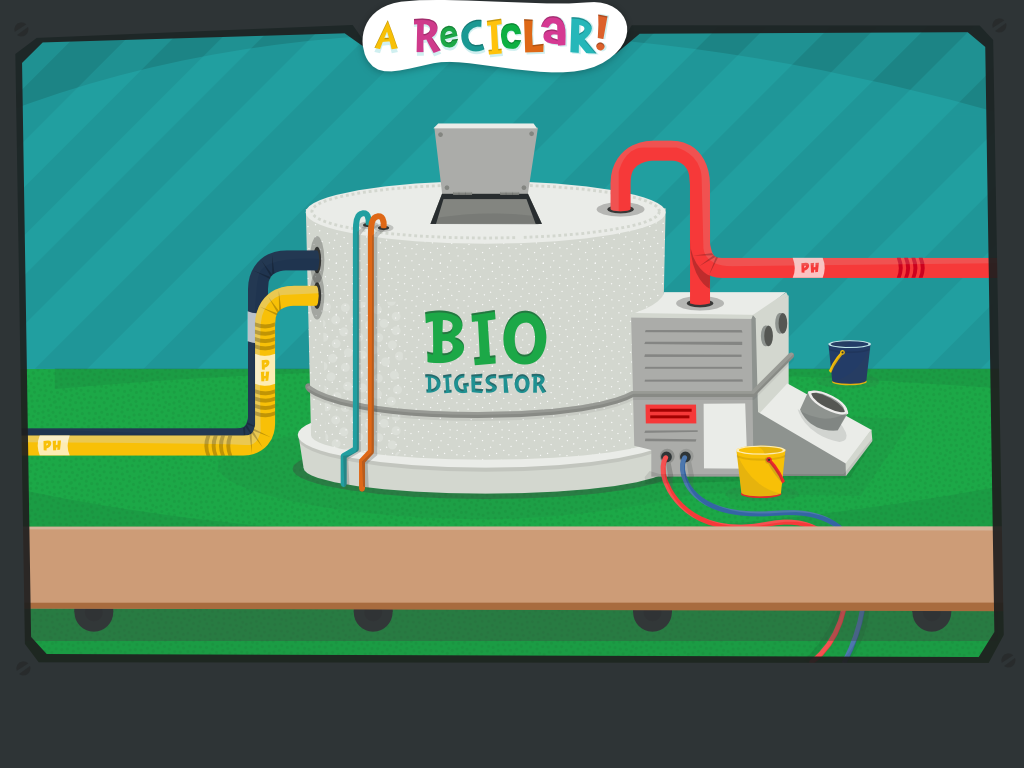
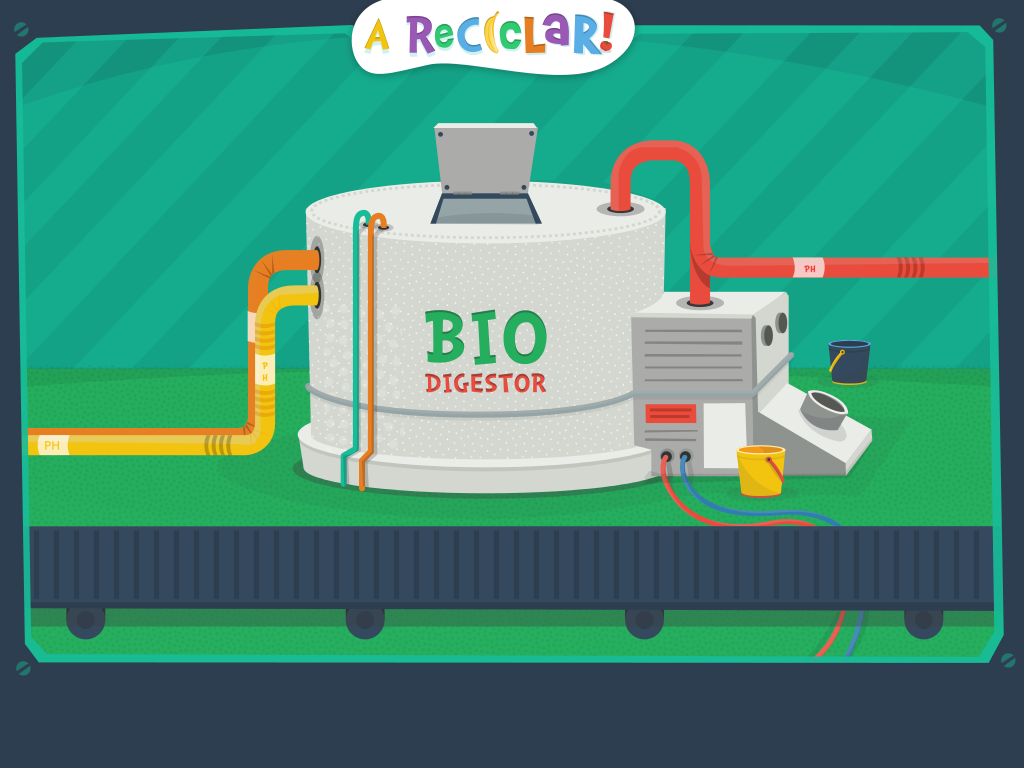
modificados los array para ubicar los elementos en los 4 escenarios. Ahora cada lugar tiene 12 posiciones. Agregados los escenarios que faltaban. Actualizadas gran parte de las partes de la interfaz a la nueva paleta de colores.

diff --git a/scripts/data/places.js b/scripts/data/places.js
@@ -2,30 +2,73 @@
 define( function()
 {
 	return [
-		{
-			code: 'park',
+		{	code: 'park',
 			elements: [
-				{ x: 780, y: 340, scale: .4 },
+				{ x: 780, y: 340, scale: .6 },
 				{ x: 145, y: 420, scale: .8 },
 				{ x: 300, y: 430, scale: .9 },
-				{ x: 745, y: 480, scale: 1 },
-				{ x: 110, y: 550, scale: 1.2 },
-				{ x: 445, y: 570, scale: 1.4 },
-				{ x: 840, y: 600, scale: 1.6  },
-			],
-		},
-		{
-			code: 'room',
+				{ x: 745, y: 480, scale: .9 },
+				{ x: 110, y: 550, scale: 1 },
+				{ x: 445, y: 570, scale: 1.1 },
+				{ x: 840, y: 600, scale: 1.2 },
+				{ x: 590, y: 459, scale: .8 },
+				{ x: 357, y: 347, scale: .6 },
+				{ x: 908, y: 338, scale: .6 },
+				{ x: 24, y: 339, scale: .6 },
+				{ x: 328, y: 558, scale: .7 },
+				],
+			},
+
+		{	code: 'room',
 			elements: [
-				{ x: 780, y: 340, scale: .4 },
-				{ x: 145, y: 420, scale: .8 },
-				{ x: 300, y: 430, scale: .9 },
-				{ x: 745, y: 480, scale: 1 },
-				{ x: 110, y: 550, scale: 1.2 },
-				{ x: 445, y: 570, scale: 1.4 },
-				{ x: 840, y: 600, scale: 1.6  },
-			],
-		},
+				{ x:87, y: 540, scale: .7 },
+				{ x:827, y: 522, scale: .6 },
+				{ x:504, y: 416, scale: .7 },
+				{ x:759, y: 353, scale: .7 },
+				{ x:653, y: 364, scale: .6 },
+				{ x:771, y: 245, scale: .6 },
+				{ x:410, y: 324, scale: .8 },
+				{ x:222, y: 84, scale: .7 },
+				{ x:210, y: 565, scale: .8 },
+				{ x:769, y: 140, scale: .6 },
+				{ x:475, y: 150, scale: .6 },
+				{ x:59, y: 167, scale: .6 },
+				],
+			},
+
+		{	code: 'kitchen',
+			elements: [
+				{ x:137, y: 98, scale: .8 },
+				{ x:45, y: 129, scale: .6 },
+				{ x:531, y: 548, scale: .7 },
+				{ x:881, y: 525, scale: .9 },
+				{ x:590, y: 224, scale: .8 },
+				{ x:354, y: 135, scale: .6 },
+				{ x:254, y: 539, scale: .8 },
+				{ x:798, y: 321, scale: .7 },
+				{ x:372, y: 265, scale: .6 },
+				{ x:294, y: 296, scale: .5 },
+				{ x:486, y: 228, scale: .6 },
+				{ x:653, y: 519, scale: 1 },
+				],
+			},
+
+		{	code: 'classroom',
+			elements: [
+				{ x:580, y: 362, scale: .6 },
+				{ x:534, y: 371, scale: .5 },
+				{ x:537, y: 90, scale: .7 },
+				{ x:404, y: 473, scale: .7 },
+				{ x:630, y: 499, scale: .7 },
+				{ x:896, y: 470, scale: .6 },
+				{ x:520, y: 269, scale: .6 },
+				{ x:28, y: 411, scale: .5 },
+				{ x:272, y: 319, scale: .7 },
+				{ x:143, y: 563, scale: .6 },
+				{ x:724, y: 460, scale: .6 },
+				{ x:467, y: 102, scale: .6 },
+				],
+			},
 	];
 });
 
